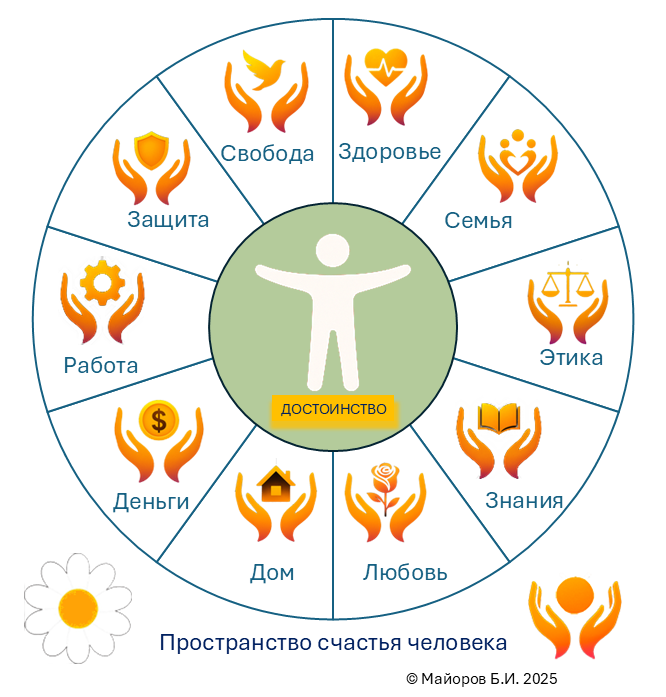
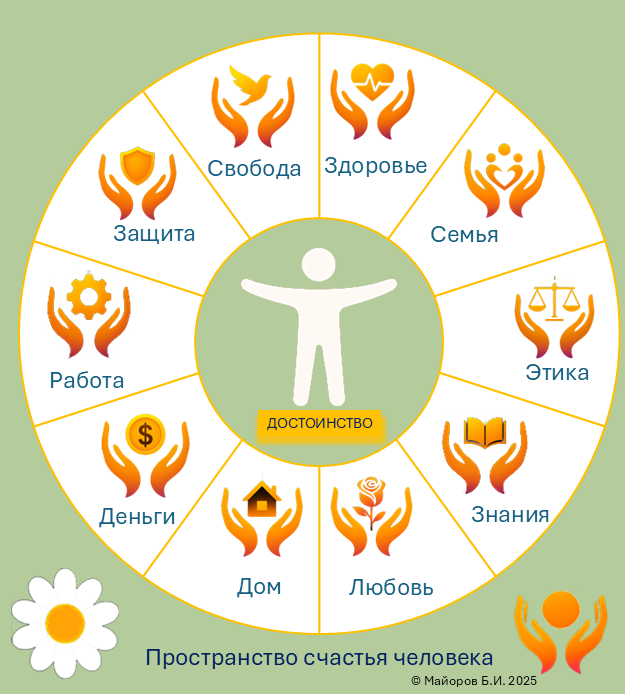
123
Изменил рисунок инфографики

diff --git a/10c-infographic.html b/10c-infographic.html
@@ -135,7 +135,7 @@
   </section>
 
   <footer>
-    © Майоров Б. И. 2025 — Всемирное агентство по делам счастья
+    © Майоров Б. И. 2025 — Всемирное агентство счастья
   </footer>
 
 </body>
